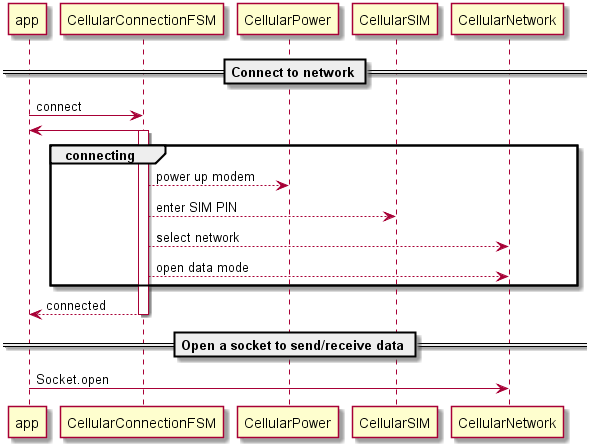
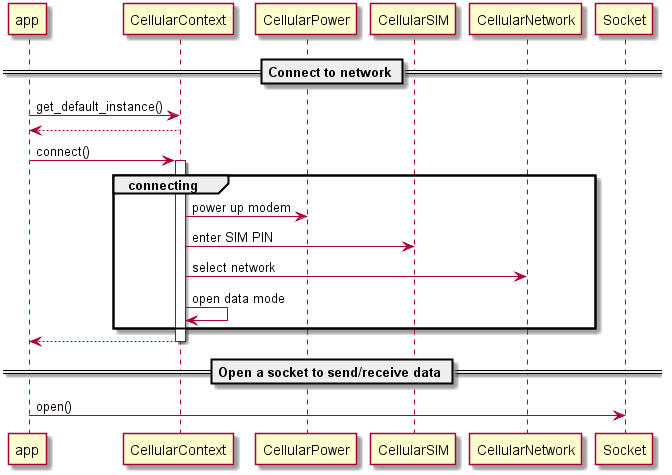
Cellular: update handbook to 5.11

Changed region(s): [[0.0, 0.2036, 0.9933, 1.0], [0.0, 0.0, 0.9933, 0.2036], [0.8127, 0.5235, 0.8428, 0.5526]]

diff --git a/docs/reference/technology/connectivity/cellular.md b/docs/reference/technology/connectivity/cellular.md
@@ -27,7 +27,7 @@ There are two phases to Mbed OS connectivity, in general:
 1. Connect to a network.
 1. Open a socket to send or receive data.
 
-With cellular, the easiest way to connect your application to the internet over a cellular network is to use the `CellularConnectionFSM` class. It encapsulates most of the complexity of connecting to the cellular network and also reports any changes in connection status to your application. When connected to a cellular network, you can use Mbed OS network sockets as usual, as Figure 2 illustrates.
+With cellular, the easiest way to connect your application to the internet over a cellular network is to use the `CellularContext` class and `get_default_instance`. It encapsulates most of the complexity of connecting to the cellular network and also reports any changes in connection status to your application. When connected to a cellular network, you can use Mbed OS network sockets as usual, as Figure 2 illustrates.
 
 <span class="images">![](https://s3-us-west-2.amazonaws.com/mbed-os-docs-images/api-cellular-quick-start.png)<span>Figure 2. Connect to cellular network and open a socket</span></span>
 
@@ -48,11 +48,13 @@ If you use an Mbed OS target and a separate cellular hosted module via a serial 
         [
             "CELLULAR_DEVICE=<manufacturer-module>",
             "MDMRXD=<rx-pin-name>",
-            "MDMTXD=<tx-pin-name>"
+            "MDMTXD=<tx-pin-name>",
+            "MDMRTS=<rts-pin-name>",
+            "MDMCTS=<cts-pin-name>"
         ]
-    }    
+    }
 
-You need to change the pin-names above to actual pins, such as D0 and D1, according to your Mbed target. You may also need to define MDMRTS and MDMCTS pins if you have RTS/CTS connected on UART.
+You need to change the pin-names above to actual pins, such as D0 and D1, according to your Mbed target. You may also need to define MDMRTS and MDMCTS pins if you have RTS/CTS connected on UART. If RTC/CTS are not connected on UART then define MDMRTS and MDMCTS to 'NC'.
 
 ### Cellular APIs
 
@@ -60,11 +62,24 @@ As an application developer, you should use and refer only to classes located un
 
 Cellular APIs are structured based on main functionalities:
 
-- `CellularNetwork` for cellular network features, such as preferred operator and APN.
+- `CellularContext` is the main interface for application. Used to connect to operators APN.
+- `CellularNetwork` for cellular network features, such as registering and attaching to a network.
 - `CellularPower` for cellular hosted module power control, such as enabling power save.
 - `CellularInformation` to read the cellular hosted module type and firmware version.
 - `CellularSIM` to enter the PIN code and other SIM management functions.
 - `CellularSMS` to read and write SMS messages.
+
+CellularContext class can be easily instantiated with `CellularContext::get_default_instance()` which opens `CellularDevice` and via device opens `CellularContext`. Opening `CellularContext` via `get_default_instance` uses default values from mbed_app.json.
+Default values are not defined by default and must be overridden in mbed_app.json if they are needed:
+"target_overrides": {
+        "*": {
+            "nsapi.default-cellular-plmn": "\"12346\"",
+            "nsapi.default-cellular-sim-pin": "\"1234\"",
+            "nsapi.default-cellular-apn": "\"internet\"",
+            "nsapi.default-cellular-username": 0,
+            "nsapi.default-cellular-password": 0
+        }
+    }
 
 The CellularDevice class encloses cellular APIs. Therefore, to use any cellular API, you need to get CellularDevice first. You can then use CellularDevice to open and close cellular APIs, as Figure 3 illustrates.
 
@@ -72,9 +87,11 @@ The CellularDevice class encloses cellular APIs. Therefore, to use any cellular 
 
 When an application has opened a cellular API, you can use it to request API methods. For example:
 
-    CellularNetwork *network  = cellularDevice->get_network();
-    if (network) {
-        printf("Local IP address is %s", network->get_ip_address());
+    CellularContext *ctx  = cellularDevice->create_context();
+    if (ctx) {
+		if (ctx-connect() == NSAPI_ERROR_OK) {
+			printf("Local IP address is %s", ctx->get_ip_address());
+		}
     }
 
 ### UDP and TCP sockets
@@ -119,7 +136,7 @@ Consider the following points when selecting PPP or AT mode:
 
 ### Optimize for power consumption
 
-The `CellularPower` class has methods to optimize power saving. The `set_powerl_level()` offers flexibility to control the reception and transmission power levels. In addition, 3GPP has specified advanced power optimizations that are useful for celluar IoT devices: Power Save Mode (PSM) and extended Discontinuous Reception (eDRX).
+The `CellularPower` class has methods to optimize power saving. The `set_power_level()` offers flexibility to control the reception and transmission power levels. In addition, 3GPP has specified advanced power optimizations that are useful for celluar IoT devices: Power Save Mode (PSM) and extended Discontinuous Reception (eDRX).
 
 #### PSM - Power Save Mode
 

diff --git a/docs/porting/connectivity/CellularInterface.md b/docs/porting/connectivity/CellularInterface.md
@@ -86,7 +86,7 @@ If your cellular module has an IP stack, you need to implement the AT commands t
 
 For example implementations of a socket adaptation, look in `features/cellular/framework/targets`.
 
-When the modem has AT and/or PPP mode support in place and the application developer has selected which mode to use, it's up to the cellular framework to instantiate the correct classes. For example, [mbed-os-example-cellular](https://os.mbed.com/teams/mbed-os-examples/code/mbed-os-example-cellular/) instantiates [EasyCellularConnection class](http://os-doc-builder.test.mbed.com/docs/development/mbed-os-api-doxy/_easy_cellular_connection_8h_source.html), which in turn instantiates [CellularConnectionFSM class](http://os-doc-builder.test.mbed.com/docs/development/mbed-os-api-doxy/_cellular_connection_f_s_m_8h_source.html). CellularConnectionFSM instantiates classes implementing [the AT command layer](http://os-doc-builder.test.mbed.com/docs/development/mbed-os-api-doxy/_a_t___cellular_device_8h_source.html) between the modem and the Mbed OS CPU. If an application developer has configured PPP mode in `mbed_app.json` then [AT_CellularNetwork](http://os-doc-builder.test.mbed.com/docs/development/mbed-os-api-doxy/_a_t___cellular_network_8h_source.html) connects to a cellular network and calls `nsapi_ppp_connect()` to start the data call through the PPP pipe using LWIP sockets.
+When the modem has AT and/or PPP mode support in place and the application developer has selected which mode to use, it's up to the cellular framework to instantiate the correct classes. For example, [mbed-os-example-cellular](https://os.mbed.com/teams/mbed-os-examples/code/mbed-os-example-cellular/) instantiates [CellularContext class](http://os-doc-builder.test.mbed.com/docs/development/mbed-os-api-doxy/_cellular_context_8h_source.html). CellularContext instantiates classes implementing [the AT command layer](http://os-doc-builder.test.mbed.com/docs/development/mbed-os-api-doxy/_a_t___cellular_device_8h_source.html) between the modem and the Mbed OS CPU. If an application developer has configured PPP mode in `mbed_app.json` then [AT_CellularContext](http://os-doc-builder.test.mbed.com/docs/development/mbed-os-api-doxy/_a_t___cellular_context_8h_source.html) connects to a cellular network and calls `nsapi_ppp_connect()` to start the data call through the PPP pipe using LWIP sockets.
 
 ### Testing
 

diff --git a/docs/api/networkinterfaces/CellularInterface.md b/docs/api/networkinterfaces/CellularInterface.md
@@ -4,13 +4,13 @@
 
 The CellularBase provides a C++ API for connecting to the internet over a Cellular device.
 
-Arm Mbed OS provides a [reference implementation of CellularBase](http://os-doc-builder.test.mbed.com/docs/development/mbed-os-api-doxy/_easy_cellular_connection_8h_source.html), which has more information.
+Arm Mbed OS provides a [reference implementation of CellularBase](http://os-doc-builder.test.mbed.com/docs/development/mbed-os-api-doxy/_cellular_context_8h_source.html), which has more information.
 
 #### Cellular
 
 The [CellularBase](http://os-doc-builder.test.mbed.com/docs/development/mbed-os-api-doxy/_cellular_base_8h_source.html) provides a C++ API for connecting to the internet over a Cellular device.
 
-Arm Mbed OS provides a [reference implementation of CellularBase](http://os-doc-builder.test.mbed.com/docs/development/mbed-os-api-doxy/_easy_cellular_connection_8h_source.html).
+Arm Mbed OS provides a [reference implementation of CellularBase](http://os-doc-builder.test.mbed.com/docs/development/mbed-os-api-doxy/_cellular_context_8h_source.html).
 
 ##### Getting started
 
@@ -48,7 +48,7 @@ You can use and extend a cellular interface in various different ways. For examp
 
 <span class="images">![](https://s3-us-west-2.amazonaws.com/mbed-os-docs-images/Cell_PPP.png)</span>
 
-[`mbed-os-example-cellular`](https://os.mbed.com/teams/mbed-os-examples/code/mbed-os-example-cellular/) uses [an easy cellular connection](http://os-doc-builder.test.mbed.com/docs/development/mbed-os-api-doxy/_easy_cellular_connection_8h_source.html). It depends on the modem whether the application uses PPP or AT mode. We can summarize this particular design as follows:
+[`mbed-os-example-cellular`](https://os.mbed.com/teams/mbed-os-examples/code/mbed-os-example-cellular/) uses [a class CellularContext](http://os-doc-builder.test.mbed.com/docs/development/mbed-os-api-doxy/_cellular_context_8h_source.html). It depends on the modem whether the application uses PPP or AT mode. We can summarize this particular design as follows:
 
 - It uses an external IP stack, such as LWIP, or on-chip network stacks such as when the modem does not support PPP.
 - The easy cellular connection uses standard 3GPP AT 27.007 AT commands to set up the cellular modem and to register to the network.

diff --git a/docs/reference/configuration/Connectivity.md b/docs/reference/configuration/Connectivity.md
@@ -191,7 +191,7 @@ Example application code can be as simple as:
     if (!net) {
         // There is no default...
     }
-    net->connet();
+    net->connect();
 ```
 
 Boards that provide only Ethernet connectivity do not require any configuration. The default settings are sufficient. Boards that provide other connectivity options require selecting the default interface type and providing settings for it.
@@ -222,6 +222,12 @@ Name: nsapi.default-wifi-ssid
     No value set
 Name: nsapi.default-wifi-password
     Defined by: library:nsapi
+    No value set
+Name: nsapi.default-cellular-plmn
+	Defined by: library:nsapi
+    No value set
+Name: nsapi.default-cellular-sim-pin
+	Defined by: library:nsapi
     No value set
 Name: nsapi.default-cellular-apn
     Defined by: library:nsapi
